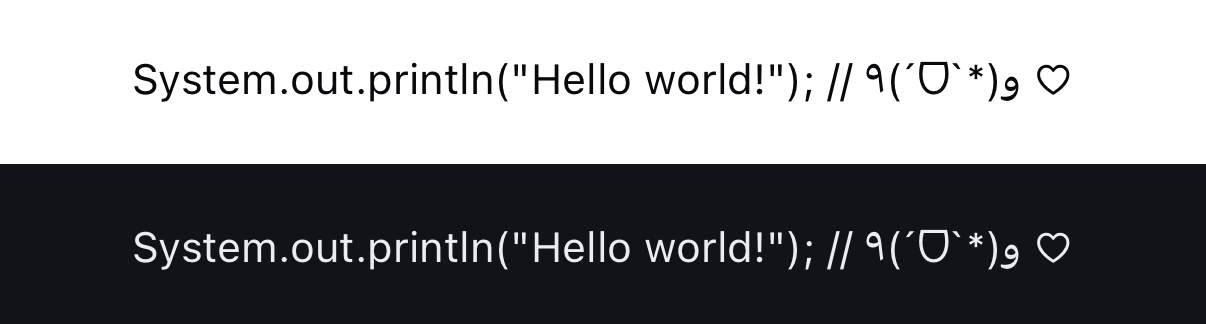
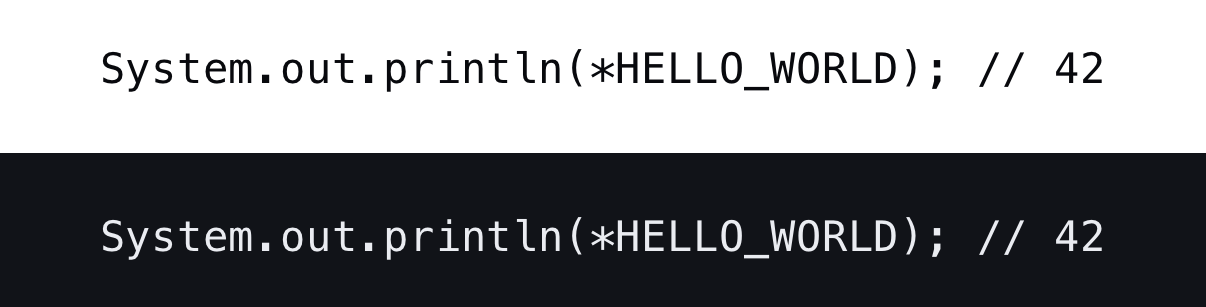
fix(OUDS): font semantic token for `code` typography with Menlo value (#1799) (#1809)
Change manually the font semantic token for code cases from "SF Mono" to "Menlo" as "SF Mono" cannot be used as is due to Apple restrictions.
Remove tests cases and mapping definitions for "SF Pro" and "SF Mono" because cannot be used as they are by name by code.
Fix several typos in documentation and comments.

Closes #1799

Changed region(s): [[0.0614, 0.1466, 0.9204, 0.3225], [0.0614, 0.7036, 0.9204, 0.8502], [0.0, 0.4984, 1.0, 0.5277]]

diff --git a/MISO/Foundations/OUDS/Tests/PostScriptFontNamesMapTests.swift b/MISO/Foundations/OUDS/Tests/PostScriptFontNamesMapTests.swift
@@ -38,95 +38,6 @@ struct PostScriptFontNamesMapTests {
         #expect(kApplePostScriptFontNames[PSFNMK("Helvetica", Font.Weight.bold)] == "Helvetica-Bold")
     }
 
-    // MARK: - SF Pro
-
-    @Test
-    func sfProUltraLight() throws {
-        #expect(kApplePostScriptFontNames[PSFNMK("SF Pro", Font.Weight.ultraLight)] == "SFPro-Ultralight")
-    }
-
-    @Test
-    func sfProThin() throws {
-        #expect(kApplePostScriptFontNames[PSFNMK("SF Pro", Font.Weight.thin)] == "SFPro-Thin")
-    }
-
-    @Test
-    func sfProLight() throws {
-        #expect(kApplePostScriptFontNames[PSFNMK("SF Pro", Font.Weight.light)] == "SFPro-Light")
-    }
-
-    @Test
-    func sfProRegular() throws {
-        #expect(kApplePostScriptFontNames[PSFNMK("SF Pro", Font.Weight.regular)] == "SFPro-Regular")
-    }
-
-    @Test
-    func sfPro() throws {
-        #expect(kApplePostScriptFontNames[PSFNMK("SF Pro", nil)] == "SFPro-Regular")
-    }
-
-    @Test
-    func sfProMedium() throws {
-        #expect(kApplePostScriptFontNames[PSFNMK("SF Pro", Font.Weight.medium)] == "SFPro-Medium")
-    }
-
-    @Test
-    func sfProSemiBold() throws {
-        #expect(kApplePostScriptFontNames[PSFNMK("SF Pro", Font.Weight.semibold)] == "SFPro-Semibold")
-    }
-
-    @Test
-    func sfProBold() throws {
-        #expect(kApplePostScriptFontNames[PSFNMK("SF Pro", Font.Weight.bold)] == "SFPro-Bold")
-    }
-
-    @Test
-    func sfProHeavy() throws {
-        #expect(kApplePostScriptFontNames[PSFNMK("SF Pro", Font.Weight.heavy)] == "SFPro-Heavy")
-    }
-
-    @Test
-    func sfProBlack() throws {
-        #expect(kApplePostScriptFontNames[PSFNMK("SF Pro", Font.Weight.black)] == "SFPro-Black")
-    }
-
-    // MARK: - SF Mono
-
-    @Test
-    func sfMonoLight() throws {
-        #expect(kApplePostScriptFontNames[PSFNMK("SF Mono", Font.Weight.light)] == "SFMono-Light")
-    }
-
-    @Test
-    func sfMonoRegular() throws {
-        #expect(kApplePostScriptFontNames[PSFNMK("SF Mono", Font.Weight.regular)] == "SFMono-Regular")
-    }
-
-    @Test
-    func sfMono() throws {
-        #expect(kApplePostScriptFontNames[PSFNMK("SF Mono", nil)] == "SFMono-Regular")
-    }
-
-    @Test
-    func sfMonoMedium() throws {
-        #expect(kApplePostScriptFontNames[PSFNMK("SF Mono", Font.Weight.medium)] == "SFMono-Medium")
-    }
-
-    @Test
-    func sfMonoSemiBold() throws {
-        #expect(kApplePostScriptFontNames[PSFNMK("SF Mono", Font.Weight.semibold)] == "SFMono-Semibold")
-    }
-
-    @Test
-    func sfMonoBold() throws {
-        #expect(kApplePostScriptFontNames[PSFNMK("SF Mono", Font.Weight.bold)] == "SFMono-Bold")
-    }
-
-    @Test
-    func sfMonoHeavy() throws {
-        #expect(kApplePostScriptFontNames[PSFNMK("SF Mono", Font.Weight.heavy)] == "SFMono-Heavy")
-    }
-
     // MARK: - Menlo
 
     @Test

diff --git a/MISO/Foundations/OUDS/Sources/PostScriptFontNamesMap.swift b/MISO/Foundations/OUDS/Sources/PostScriptFontNamesMap.swift
@@ -137,24 +137,11 @@ nonisolated(unsafe) private var internalApplePostScriptFontNames: PostScriptFont
 
         // "Noto Sans" defined in FontRawTokens but does not exist as is in font books
 
-        PSFNMK("SF Pro", Font.Weight.ultraLight): "SFPro-Ultralight",
-        PSFNMK("SF Pro", Font.Weight.thin): "SFPro-Thin",
-        PSFNMK("SF Pro", Font.Weight.light): "SFPro-Light",
-        PSFNMK("SF Pro", Font.Weight.regular): "SFPro-Regular",
-        PSFNMK("SF Pro", nil /* courant */ ): "SFPro-Regular",
-        PSFNMK("SF Pro", Font.Weight.medium): "SFPro-Medium",
-        PSFNMK("SF Pro", Font.Weight.semibold): "SFPro-Semibold",
-        PSFNMK("SF Pro", Font.Weight.bold): "SFPro-Bold",
-        PSFNMK("SF Pro", Font.Weight.heavy): "SFPro-Heavy",
-        PSFNMK("SF Pro", Font.Weight.black): "SFPro-Black",
+        // "SF Pro" defined in FontRawTokens but does not exist at all in font books
+        // Even if Apple native system font, not available by name
 
-        PSFNMK("SF Mono", Font.Weight.light): "SFMono-Light",
-        PSFNMK("SF Mono", Font.Weight.regular): "SFMono-Regular",
-        PSFNMK("SF Mono", nil /* courant */ ): "SFMono-Regular",
-        PSFNMK("SF Mono", Font.Weight.medium): "SFMono-Medium",
-        PSFNMK("SF Mono", Font.Weight.semibold): "SFMono-Semibold",
-        PSFNMK("SF Mono", Font.Weight.bold): "SFMono-Bold",
-        PSFNMK("SF Mono", Font.Weight.heavy): "SFMono-Heavy",
+        // "SF Mono" defined in FontRawTokens but does not exist at all in font books
+        // Even if Apple native monospaced system font, not available by name
 
         // "Roboto" defined in FontRawTokens but does not exist at all in font books
 
@@ -166,8 +153,6 @@ nonisolated(unsafe) private var internalApplePostScriptFontNames: PostScriptFont
         PSFNMK("Courier New", Font.Weight.bold): "CourierNewPS-BoldMT",
 
         // "SF Mono" defined in FontRawTokens but does not exist at all in font books
-
-        // MARK: Brand
 
         PSFNMK("Helvetica Neue", Font.Weight.ultraLight): "HelveticaNeue-Ultralight",
         PSFNMK("Helvetica Neue", Font.Weight.thin): "HelveticaNeue-Thin",

diff --git a/MISO/Foundations/OUDS/Tests/Extensions/StringSwiftUITests.swift b/MISO/Foundations/OUDS/Tests/Extensions/StringSwiftUITests.swift
@@ -34,36 +34,6 @@ struct StringSwiftUITests {
         #expect(result == "Helvetica-Bold", "Current value is '\(result)'")
     }
 
-    /// Tests the SF Pro font family values created using a font family name and a weight
-    @Test
-    func fontNameInPostScriptForSFPro() throws {
-        var result: String
-
-        result = "SF Pro".fontNameInPostScript(using: "\(Font.Weight.ultraLight)")
-        #expect(result == "SFPro-Ultralight", "Current value is '\(result)'")
-
-        result = "SF Pro".fontNameInPostScript(using: "\(Font.Weight.thin)")
-        #expect(result == "SFPro-Thin", "Current value is '\(result)'")
-
-        result = "SF Pro".fontNameInPostScript(using: "\(Font.Weight.light)")
-        #expect(result == "SFPro-Light", "Current value is '\(result)'")
-
-        result = "SF Pro".fontNameInPostScript(using: "\(Font.Weight.medium)")
-        #expect(result == "SFPro-Medium", "Current value is '\(result)'")
-
-        result = "SF Pro".fontNameInPostScript(using: "\(Font.Weight.semibold)")
-        #expect(result == "SFPro-Semibold", "Current value is '\(result)'")
-
-        result = "SF Pro".fontNameInPostScript(using: "\(Font.Weight.bold)")
-        #expect(result == "SFPro-Bold", "Current value is '\(result)'")
-
-        result = "SF Pro".fontNameInPostScript(using: "\(Font.Weight.heavy)")
-        #expect(result == "SFPro-Heavy", "Current value is '\(result)'")
-
-        result = "SF Pro".fontNameInPostScript(using: "\(Font.Weight.black)")
-        #expect(result == "SFPro-Black", "Current value is '\(result)'")
-    }
-
     /// Tests the Menlo font family values created using a font family name and a weight
     @Test
     func fontNameInPostScriptForMenlo() throws {

diff --git a/MISO/Core/MISO/Themes/BlueCoat/Sources/Values/SemanticTokens/BlueCoatTheme+FontSemanticTokens.swift b/MISO/Core/MISO/Themes/BlueCoat/Sources/Values/SemanticTokens/BlueCoatTheme+FontSemanticTokens.swift
@@ -11,9 +11,9 @@ import MISOTokensSemantic
 extension BlueCoatThemeFontSemanticTokensProvider: FontSemanticTokens {
     /// Has for value token familySystem (= "Shantell Sans")
     @objc open var familyBody: FontFamilySemanticToken { familySystem }
-    /// Has for value token FontRawTokens.familyMonospaceSfMono (= "SF Mono")
-    @objc open var familyCode: FontFamilySemanticToken { FontRawTokens.familyMonospaceSfMono }
-    /// Has for value token familySystem (= "Shantell Sans")
+    /// Has for value token FontRawTokens.familyMonospaceMenlo (= "Menlo")
+    @objc open var familyCode: FontFamilySemanticToken { FontRawTokens.familyMonospaceMenlo }
+    /// Has for value token familySystem (= "Helvetica Neue")
     @objc open var familyDisplay: FontFamilySemanticToken { familySystem }
     /// Has for value token familySystem (= "Shantell Sans")
     @objc open var familyHeading: FontFamilySemanticToken { familySystem }

diff --git a/MISO/Core/OUDS/Tokens/RawTokens/Sources/Declarations/ElevationRawTokens.swift b/MISO/Core/OUDS/Tokens/RawTokens/Sources/Declarations/ElevationRawTokens.swift
@@ -10,7 +10,7 @@
 /// - Since: OUDS 0.8.0
 @frozen public enum ElevationRawTokens {
 
-    // Values are defined in *ElevationRawTokens+Values.swift* file updated by the tokenator and *ElevationRawTokens+Values.swift* updated manualy by the development team.
+    // Values are defined in *ElevationRawTokens+Values.swift* file updated by the tokenator and *ElevationRawTokens+Values.swift* updated manually by the development team.
     // Primitive types such as `CGFloat` must be used to as to allow to use `@objc` keywords in extensions for overriding.
     // Such tokens are packed in a _Swift enum_ so as to gather them in one object with the suitable namespace and avoid to have just constants in nothing else
     //  (i.e. publicly accessible from everywhere). More optimized than dimensionstruct_.

diff --git a/MISO/Core/OUDS/Tokens/RawTokens/Sources/Declarations/FontRawTokens.swift b/MISO/Core/OUDS/Tokens/RawTokens/Sources/Declarations/FontRawTokens.swift
@@ -16,7 +16,7 @@
 /// - Since: OUDS 0.8.0
 @frozen public enum FontRawTokens {
 
-    // Values are defined in *FontRawTokens+Values.swift* file  generated by the tokenator and in *FontRawTokens+Composites.swift* updated manualy by the develoment team.
+    // Values are defined in *FontRawTokens+Values.swift* file  generated by the tokenator and in *FontRawTokens+Composites.swift* updated manually by the develoment team.
     // Primitive types such as `Int` and `String` must be used to as to allow to use `@objc` keywords in extensions for overriding.
     // Such tokens are packed in a _Swift enum_ so as to gather them in one object with the suitable namespace and avoid to have just constants in nothing else
     //  (i.e. publicly accessible from everywhere). More optimized than struct.

diff --git a/MISO/Core/OUDS/Components/Sources/Navigations/ToolBar/MISOToolBarItem.swift b/MISO/Core/OUDS/Components/Sources/Navigations/ToolBar/MISOToolBarItem.swift
@@ -126,7 +126,7 @@ public struct MISOToolBarItem: View, Identifiable {
     /// - Since: OUDS 1.4.0
     @frozen public enum NavigationType {
 
-        /// The back button that can be added manualy if need. According to our design system, in could be the case for a sheet.
+        /// The back button that can be added manually if need. According to our design system, in could be the case for a sheet.
         /// In a navigation, by default the system's one is displayed (without text). If preferred, this one can be added but the system one must be hidden
         /// using `View.navigationBarBackButtonHidden()`
         ///

diff --git a/CHANGELOG.md b/CHANGELOG.md
@@ -14,6 +14,26 @@ and this project adheres to [Semantic Versioning](https://semver.org/spec/v2.0.0
 
 - `typography` component to version v1.1.0 (Orange-OpenSource/ouds-ios#1722)
 - `alert message` component to version v1.2.0 (Orange-OpenSource/ouds-ios#1659)
+
+### Fixed
+
+- Use of `Menlo` font family for `code` typography through update of `familyCode` font semantic token (Orange-OpenSource/ouds-ios#1799)
+
+## [3.1.0](https://github.com/Orange-OpenSource/ouds-ios/compare/3.0.0...3.1.0) - 2026-10-02
+
+### Added
+
+- `White label` theme (Orange-OpenSource/ouds-ios#1772)
+
+### Changed
+
+- Swift Package `SwiftFormat` from v0.63.0 to v0.63.1
+- Ruby Gem `fastlane` from v2.240.0 to v2.240.1
+- `excon` transitive RubyGem from v1.7.1 to v1.7.2b (CVE-2026-54171)
+- `Ruby` version from v4.0.6 to v4.0.7 for `build-and-test` andg `build-xcframework` workflows
+- GitHub Actions `actions/upload-artifact` action from v4.6.2 to v7.0.1 for `build-xcframework` workflow
+- GitHub Actions `github/codeql-action/upload-sarif` action from v4.38.0 to v4.38.2 for `scorecard` workflow
+- GitHub Actions `ruby/setup-ruby` action from v1.321.0 to v1.327.0 for `build-and-test` and `build-xcframework` workflows
 - `button` component to version v3.4.0 (Orange-OpenSource/ouds-ios#1653)
 - Make product exportable and usable as XCFramework (Orange-OpenSource/ouds-ios#1767)
 - In `circular progress indicator`, set helper text in two texts to fix alignment (Orange-OpenSource/ouds-ios#1753)
